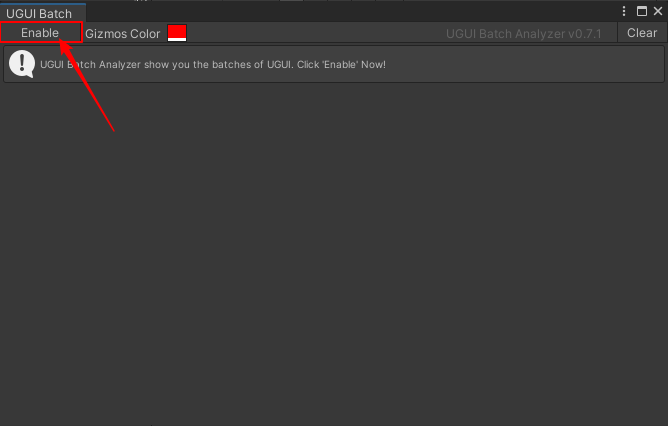
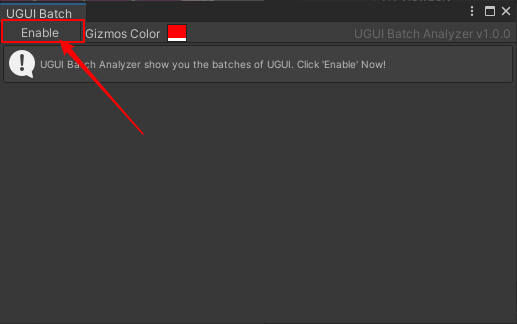
去掉无关紧要的显示数据

diff --git a/Editor/GUI/MVC/UIBatchAnalyzerView.cs b/Editor/GUI/MVC/UIBatchAnalyzerView.cs
@@ -18,7 +18,7 @@ namespace SimpleX
 
         private static GUIStyle _style_ = null;
         private const string _name_ = "UGUI Batch Analyzer";
-        private const string _version_ = "v0.9.2";
+        private const string _version_ = "v1.0.0";
 
         public UIBatchAnalyzerView(UIBatchAnalyzerData data, UIBatchAnalyzerCtrl ctrl)
         {
@@ -340,8 +340,8 @@ namespace SimpleX
             {
                 EditorGUILayout.ObjectField("Material", material, typeof(Material));
 
-                var materialIID = material.GetInstanceID();
-                EditorGUILayout.HelpBox($"ID: {materialIID}", MessageType.Info);
+                // var iid = material.GetInstanceID();
+                // EditorGUILayout.HelpBox($"ID: {iid}", MessageType.Info);
             }
         }
         
@@ -351,8 +351,8 @@ namespace SimpleX
             {
                 EditorGUILayout.ObjectField("Sprite Atlas", spriteAtlas, typeof(SpriteAtlas));
 
-                var textureIID = spriteAtlas.GetInstanceID();
-                EditorGUILayout.HelpBox($"ID: {textureIID}", MessageType.Info);
+                // var iid = spriteAtlas.GetInstanceID();
+                // EditorGUILayout.HelpBox($"ID: {iid}", MessageType.Info);
             }
         }
         
@@ -362,8 +362,8 @@ namespace SimpleX
             {
                 EditorGUILayout.ObjectField("Texture", texture, typeof(Texture));
 
-                var textureIID = texture.GetInstanceID();
-                EditorGUILayout.HelpBox($"ID: {textureIID}", MessageType.Info);
+                // var iid = texture.GetInstanceID();
+                // EditorGUILayout.HelpBox($"ID: {iid}", MessageType.Info);
             }
         }
         

diff --git a/Editor/GUI/UIBatchAnalyzerWindow.cs b/Editor/GUI/UIBatchAnalyzerWindow.cs
@@ -35,11 +35,6 @@ namespace SimpleX
             this.Repaint();
         }
 
-        // private void Update()
-        // {
-        //     view?.OnUpdate();
-        // }
-
         private void OnDisable()
         {
             view?.OnDisable();
@@ -49,10 +44,5 @@ namespace SimpleX
         {
             view = null;
         }
-
-        // private void OnHierarchyChange()
-        // {
-        //     view?.OnHierarchyChange();
-        // }
     }
 }
